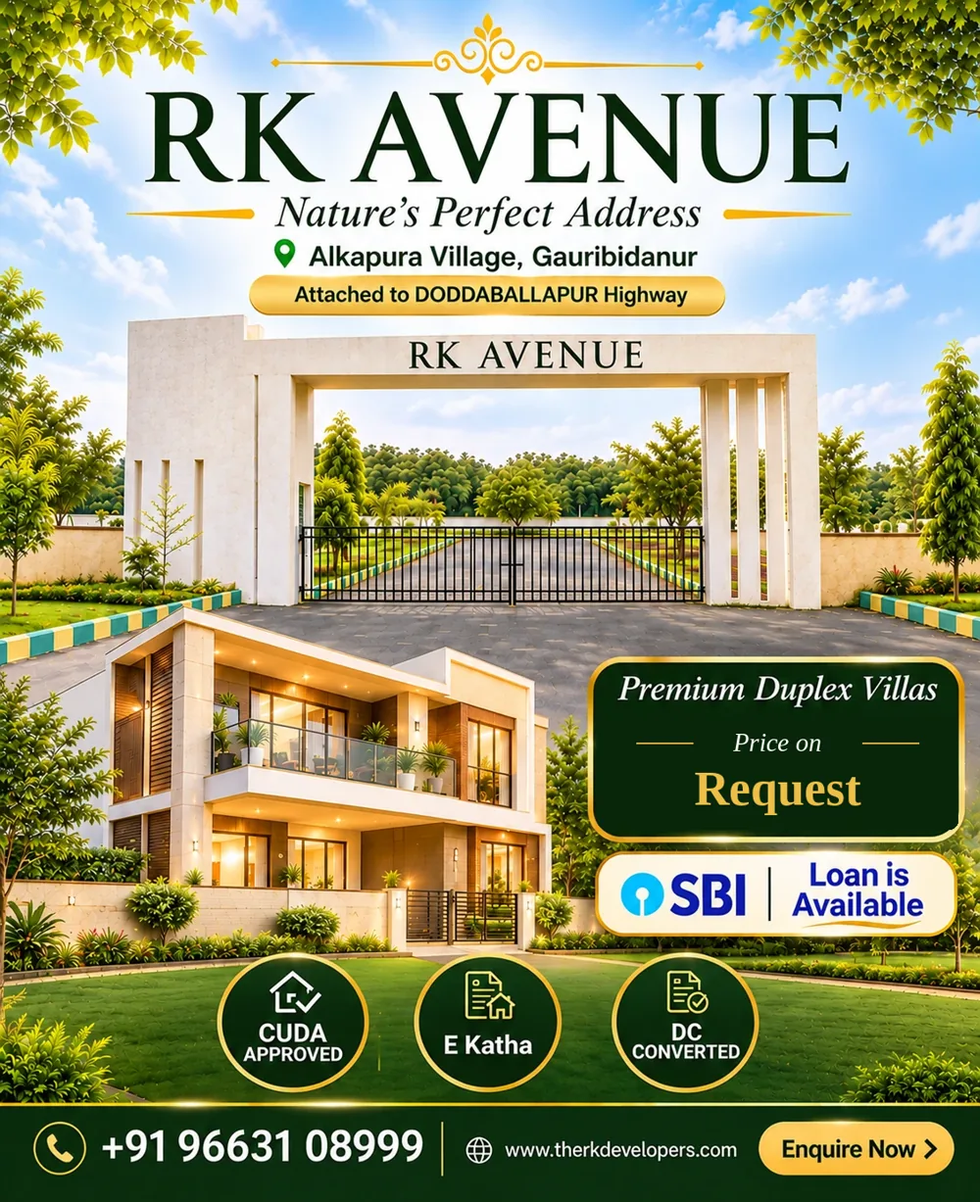
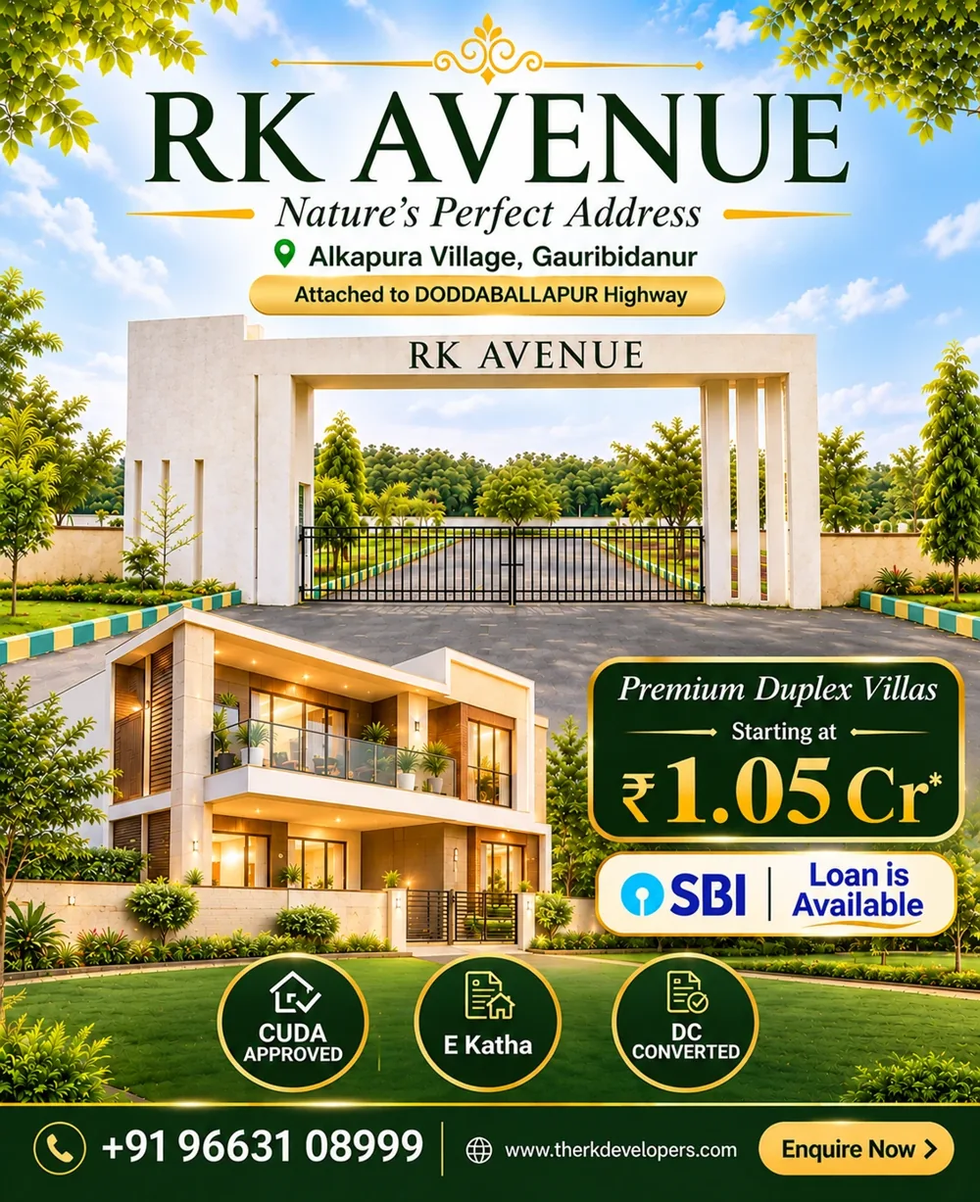
RK Avenue: villas only, show starting price of ₹1.05 Cr
- Replace plot wording with duplex villas on the RK Avenue page,
  homepage, projects page and chatbot
- Show 'Starting at ₹1.05 Cr*' (with terms note) and add the price
  to structured data
- Restore the original poster

Claude-Session: https://claude.ai/code/session_018ukqcjFmVaUsG5uPhhZ3Eq

Changed region(s): [[0.62, 0.5884, 0.961, 0.7123]]

diff --git a/rk-avenue.html b/rk-avenue.html
@@ -5,9 +5,9 @@
   <meta name="viewport" content="width=device-width, initial-scale=1.0" />
 
   <!-- Primary SEO -->
-  <title>RK Avenue | Premium Residential Plots near Gauribidanur</title>
-  <meta name="description" content="RK Avenue by RK Developers – premium duplex villas and gated plots in Alkapura Village, Gauribidanur, attached to Doddaballapur Highway. CUDA approved, E-Khata, DC converted, SBI loan available." />
-  <meta name="keywords" content="RK Avenue, RK Avenue Gauribidanur, residential plots Gauribidanur, gated community plots Bangalore, RK Developers plots, Alkapura Village plots" />
+  <title>RK Avenue | Premium Duplex Villas near Gauribidanur</title>
+  <meta name="description" content="RK Avenue by RK Developers – premium duplex villas starting at ₹1.05 Cr in Alkapura Village, Gauribidanur, attached to Doddaballapur Highway. CUDA approved, E-Khata, DC converted, SBI loan available." />
+  <meta name="keywords" content="RK Avenue, RK Avenue Gauribidanur, duplex villas Gauribidanur, villas near Doddaballapur Highway, CUDA approved villas, RK Developers villas, Alkapura Village villas" />
   <meta name="robots" content="index, follow, max-snippet:-1, max-image-preview:large, max-video-preview:-1" />
   <link rel="canonical" href="https://therkdevelopers.com/rk-avenue.html" />
 
@@ -20,16 +20,16 @@
   <!-- Open Graph -->
   <meta property="og:type" content="website" />
   <meta property="og:site_name" content="RK Developers" />
-  <meta property="og:title" content="RK Avenue | Premium Residential Plots near Gauribidanur" />
-  <meta property="og:description" content="RK Avenue by RK Developers – Nature's Perfect Address. Premium duplex villas in Alkapura Village, Gauribidanur, attached to Doddaballapur Highway. CUDA approved, E-Khata, DC converted, SBI loan available." />
+  <meta property="og:title" content="RK Avenue | Premium Duplex Villas near Gauribidanur" />
+  <meta property="og:description" content="RK Avenue by RK Developers – Nature's Perfect Address. Premium duplex villas starting at ₹1.05 Cr in Alkapura Village, Gauribidanur, attached to Doddaballapur Highway. CUDA approved, E-Khata, DC converted, SBI loan available." />
   <meta property="og:url" content="https://therkdevelopers.com/rk-avenue.html" />
   <meta property="og:image" content="https://therkdevelopers.com/assets/rk-logo.png" />
   <meta property="og:locale" content="en_IN" />
 
   <!-- Twitter Card -->
   <meta name="twitter:card" content="summary_large_image" />
-  <meta name="twitter:title" content="RK Avenue | Premium Residential Plots near Gauribidanur" />
-  <meta name="twitter:description" content="RK Avenue by RK Developers – Nature's Perfect Address. Premium duplex villas in Alkapura Village, Gauribidanur, attached to Doddaballapur Highway. CUDA approved, E-Khata, DC converted, SBI loan available." />
+  <meta name="twitter:title" content="RK Avenue | Premium Duplex Villas near Gauribidanur" />
+  <meta name="twitter:description" content="RK Avenue by RK Developers – Nature's Perfect Address. Premium duplex villas starting at ₹1.05 Cr in Alkapura Village, Gauribidanur, attached to Doddaballapur Highway. CUDA approved, E-Khata, DC converted, SBI loan available." />
   <meta name="twitter:image" content="https://therkdevelopers.com/assets/rk-logo.png" />
 
   
@@ -51,13 +51,16 @@
     "@graph": [
       {
         "@type": "Product",
-        "name": "RK Avenue – Premium Residential Plots by RK Developers",
-        "description": "RK Avenue by RK Developers – 36 premium gated community plots in Alkapura Village, near Gauribidanur.",
+        "name": "RK Avenue – Premium Duplex Villas by RK Developers",
+        "description": "RK Avenue by RK Developers – premium duplex villas in a gated community in Alkapura Village, Gauribidanur, attached to Doddaballapur Highway. CUDA approved, E-Khata, DC converted, SBI loan available.",
         "brand": {"@type": "Brand", "name": "RK Developers"},
         "url": "https://therkdevelopers.com/rk-avenue.html",
         "image": "https://therkdevelopers.com/assets/rk-logo.png",
         "offers": {
           "@type": "Offer",
+          "priceCurrency": "INR",
+          "price": "10500000",
+          "description": "Starting price for a duplex villa",
           "availability": "https://schema.org/InStock",
           "seller": {"@type": "Organization", "name": "RK Developers", "url": "https://therkdevelopers.com"}
         }
@@ -408,8 +411,8 @@
     <div class="av-hero-slide" style="background-image:url('assets/rk avenue/1a.webp')"></div>
     <div class="av-hero-overlay"></div>
     <div class="av-hero-content" data-aos="fade-up">
-      <div class="av-badge"><i class="fas fa-leaf"></i> Nature&rsquo;s Perfect Address</div>
-      <h1 class="av-hero-title">Prime Land.<br/><span>Premium Living.</span></h1>
+      <div class="av-badge"><i class="fas fa-house"></i> <span>Premium Duplex Villas &middot; <span style="white-space:nowrap;">From &#8377;1.05 Cr*</span></span></div>
+      <h1 class="av-hero-title">Your Dream Villa.<br/><span>Perfect Address.</span></h1>
       <p class="av-hero-sub">Premium duplex villas in an exclusive gated community in Alkapura Village, Gauribidanur — attached to Doddaballapur Highway. CUDA approved, E-Khata, DC converted, with SBI home loans available.</p>
       <div style="display:flex;gap:14px;justify-content:center;flex-wrap:wrap;">
         <a href="contact.html?project=rk-avenue" class="btn-blue">Book a Site Visit <i class="fas fa-arrow-right"></i></a>
@@ -422,13 +425,12 @@
   <div class="av-quick-bar">
     <div class="container">
       <div class="av-quick-inner">
-        <div class="av-qi"><i class="fas fa-map"></i><span>Size: <strong>2.5 Acre Layout</strong></span></div>
-        <div class="av-qi"><i class="fas fa-home"></i><span>Plots: <strong>36 Exclusive</strong></span></div>
+        <div class="av-qi"><i class="fas fa-house"></i><span>Type: <strong>Duplex Villas</strong></span></div>
+        <div class="av-qi"><i class="fas fa-indian-rupee-sign"></i><span>Price: <strong class="av-price-blink">From &#8377;1.05 Cr*</strong></span></div>
         <div class="av-qi"><i class="fas fa-file-circle-check"></i><span>Approvals: <strong>CUDA &middot; E-Khata &middot; DC Converted</strong></span></div>
         <div class="av-qi"><i class="fas fa-building-columns"></i><span>Loan: <strong>SBI Loan Available</strong></span></div>
         <div class="av-qi"><i class="fas fa-map-marker-alt"></i><span>Location: <strong>Alkapura Village, Gauribidanur</strong></span></div>
-        <div class="av-qi"><i class="fas fa-check-circle"></i><span>Status: <strong>Ready to Register</strong></span></div>
-        <a href="contact.html?project=rk-avenue" class="btn-blue" style="font-size:0.8rem;padding:9px 20px;">Enquire</a>
+                <a href="contact.html?project=rk-avenue" class="btn-blue" style="font-size:0.8rem;padding:9px 20px;">Enquire</a>
       </div>
     </div>
   </div>
@@ -443,6 +445,7 @@
         <div data-aos="fade-left">
           <div class="av-tag">Nature&rsquo;s Perfect Address</div>
           <h2 class="av-title">Premium <span>Duplex Villas</span> at RK Avenue</h2>
+          <div style="display:inline-flex;align-items:baseline;gap:10px;background:linear-gradient(135deg,#0B3D0E,#14532D);color:#fff;border-radius:14px;padding:12px 20px;margin:4px 0 18px;box-shadow:0 8px 24px rgba(20,83,45,0.25);"><span style="font-size:0.85rem;letter-spacing:0.5px;text-transform:uppercase;color:#D1FAE5;">Starting at</span><strong style="font-family:var(--font-heading),serif;font-size:1.9rem;color:#F5C451;">&#8377;1.05 Cr*</strong></div>
           <p class="av-desc">Spacious, modern duplex villas inside a gated community in Alkapura Village, Gauribidanur &mdash; attached to Doddaballapur Highway for easy access to Bengaluru, the airport and the Doddaballapur industrial area.</p>
           <div class="rk-hl-badges" style="display:grid;grid-template-columns:repeat(2,minmax(0,1fr));gap:14px;margin:26px 0 30px;">
             <div style="display:flex;gap:12px;align-items:center;background:#F0F7FF;border:1px solid #DBEAFE;border-radius:14px;padding:14px 16px;"><i class="fas fa-house-circle-check" style="color:#1D4ED8;font-size:1.3rem;width:22px;text-align:center;"></i><div><strong style="display:block;color:#0F172A;">CUDA Approved</strong><span style="font-size:0.8rem;color:#64748B;">Approved layout</span></div></div>
@@ -455,6 +458,7 @@
             <a href="contact.html?project=rk-avenue" class="btn-blue">Enquire Now <i class="fas fa-arrow-right"></i></a>
             <a href="tel:+919663108999" class="btn-blue" style="background:#fff;color:#1D4ED8;border:2px solid #1D4ED8;box-shadow:none;"><i class="fas fa-phone"></i> +91 96631 08999</a>
           </div>
+          <p style="font-size:0.75rem;color:#94A3B8;margin-top:14px;">*Starting price. Final price depends on villa size and specifications. Terms &amp; conditions apply.</p>
         </div>
       </div>
     </div>
@@ -467,14 +471,14 @@
       <div style="display:grid;grid-template-columns:1fr 1fr;gap:60px;align-items:center;">
         <div data-aos="fade-right">
           <div class="av-tag">About RK Avenue</div>
-          <h2 class="av-title">The <span>Pinnacle</span> of Residential Plot Living</h2>
-          <p class="av-desc">RK Avenue represents "The High" in modern residential planning. Spread across 2.5 acres of pristine land, this exclusive gated community offers just <strong>36 premium residential plots</strong>. Whether you are looking for a long-term investment or the perfect foundation for your dream home, RK Avenue combines the peace of a nature-centric layout with the structural integrity of a world-class development.</p>
-          <p class="av-desc">Every plot is fully serviced, legally clear, and ready for immediate registration and construction — no waiting, no delays.</p>
+          <h2 class="av-title">The <span>Pinnacle</span> of Villa Living</h2>
+          <p class="av-desc">RK Avenue represents "The High" in modern residential living. Spread across 2.5 acres in Alkapura Village, this exclusive gated community offers <strong>premium duplex villas</strong> — spacious modern homes surrounded by greenery, attached to Doddaballapur Highway.</p>
+          <p class="av-desc">Every villa comes with clear documentation — CUDA approved, E-Khata and DC converted — and SBI home loans are available.</p>
           <div class="av-stats-row">
             <div class="av-stat-box"><div class="n">2.5</div><div class="l">Acres Planned Layout</div></div>
-            <div class="av-stat-box"><div class="n">36</div><div class="l">High-Value Plots</div></div>
+            <div class="av-stat-box"><div class="n">&#8377;1.05 Cr*</div><div class="l">Starting Price</div></div>
             <div class="av-stat-box"><div class="n">SBI</div><div class="l">Home Loan Available</div></div>
-            <div class="av-stat-box"><div class="n">100%</div><div class="l">Ready to Register</div></div>
+            <div class="av-stat-box"><div class="n">E-Khata</div><div class="l">CUDA Approved</div></div>
           </div>
         </div>
         <div data-aos="fade-left" style="position:relative;">
@@ -541,7 +545,7 @@
       <div class="section-header" data-aos="fade-up" style="text-align:center;">
         <div class="av-tag">Amenities</div>
         <h2 class="av-title" style="text-align:center;">Infrastructure Designed for a <span>Lifetime</span></h2>
-        <p style="color:#64748B;max-width:580px;margin:0 auto;font-size:0.95rem;">We don't just provide land — we provide a complete lifestyle ecosystem. Every inch of RK Avenue is engineered for comfort, safety, and modern convenience.</p>
+        <p style="color:#64748B;max-width:580px;margin:0 auto;font-size:0.95rem;">We don't just build homes — we provide a complete lifestyle ecosystem. Every inch of RK Avenue is engineered for comfort, safety, and modern convenience.</p>
       </div>
       <div class="av-amenities">
         <div class="av-amenity-card" data-aos="fade-up" data-aos-delay="50">
@@ -555,14 +559,14 @@
           <div class="av-amenity-icon"><i class="fas fa-bolt"></i></div>
           <div class="av-amenity-body">
             <h4>Electricity Connection</h4>
-            <p>Ready-to-use electricity connection provided for every individual plot — zero setup hassle.</p>
+            <p>Ready-to-use electricity connection provided for every villa — zero setup hassle.</p>
           </div>
         </div>
         <div class="av-amenity-card" data-aos="fade-up" data-aos-delay="150">
           <div class="av-amenity-icon"><i class="fas fa-tint"></i></div>
           <div class="av-amenity-body">
             <h4>Water Supply</h4>
-            <p>Dedicated water connection for each plot with reliable supply backed by storage infrastructure.</p>
+            <p>Dedicated water connection for each villa with reliable supply backed by storage infrastructure.</p>
           </div>
         </div>
         <div class="av-amenity-card" data-aos="fade-up" data-aos-delay="200">
@@ -721,8 +725,8 @@
     <div class="container">
       <div class="av-cta" data-aos="fade-up">
         <div style="position:relative;z-index:1;">
-          <h2 style="font-family:var(--font-heading);font-size:clamp(1.8rem,3vw,2.6rem);color:white;margin-bottom:12px;">Ready to Claim Your Plot at RK Avenue?</h2>
-          <p style="color:rgba(255,255,255,0.75);font-size:1rem;margin-bottom:32px;max-width:520px;margin-left:auto;margin-right:auto;">With only 36 plots available, act now. Schedule a free site visit and speak with our team today.</p>
+          <h2 style="font-family:var(--font-heading);font-size:clamp(1.8rem,3vw,2.6rem);color:white;margin-bottom:12px;">Ready to Own Your Villa at RK Avenue?</h2>
+          <p style="color:rgba(255,255,255,0.75);font-size:1rem;margin-bottom:32px;max-width:520px;margin-left:auto;margin-right:auto;">Duplex villas starting at &#8377;1.05 Cr*, with SBI home loans available. Schedule a free site visit and speak with our team today.</p>
           <div style="display:flex;gap:14px;justify-content:center;flex-wrap:wrap;">
             <a href="contact.html?project=rk-avenue" style="display:inline-flex;align-items:center;gap:8px;background:white;color:var(--av-blue);font-weight:700;padding:14px 28px;border-radius:50px;font-size:0.9rem;text-decoration:none;box-shadow:0 4px 16px rgba(0,0,0,0.1);">Book a Site Visit <i class="fas fa-arrow-right"></i></a>
             <a href="tel:+919663108999" style="display:inline-flex;align-items:center;gap:8px;background:rgba(255,255,255,0.12);color:white;font-weight:600;padding:14px 28px;border-radius:50px;font-size:0.9rem;border:2px solid rgba(255,255,255,0.35);text-decoration:none;"><i class="fas fa-phone-alt"></i> +91 9663108999</a>
@@ -817,7 +821,7 @@
       </div>
       <div style="padding:28px 32px 32px;">
         <h3 style="font-family:'Playfair Display',serif;font-size:1.35rem;color:#1E293B;margin-bottom:8px;">Interested in a Property?</h3>
-        <p style="color:#64748B;font-size:0.9rem;line-height:1.6;margin-bottom:22px;">Our property experts are available right now. Book a <strong>free site visit</strong> and find your dream home today — limited plots remaining!</p>
+        <p style="color:#64748B;font-size:0.9rem;line-height:1.6;margin-bottom:22px;">Our property experts are available right now. Book a <strong>free site visit</strong> and find your dream home today — limited villas available!</p>
         <div style="display:flex;gap:10px;justify-content:center;flex-wrap:wrap;">
           <a href="contact.html" onclick="document.getElementById('rk-popup-overlay').style.display='none';" style="background:linear-gradient(135deg,#F97316,#DC2626);color:#fff;padding:11px 22px;border-radius:50px;font-weight:600;font-size:0.88rem;text-decoration:none;display:inline-flex;align-items:center;gap:7px;">Book a Free Visit <i class="fas fa-arrow-right"></i></a>
           <a href="tel:+919663108999" style="border:2px solid #F97316;color:#F97316;padding:11px 22px;border-radius:50px;font-weight:600;font-size:0.88rem;text-decoration:none;display:inline-flex;align-items:center;gap:7px;"><i class="fas fa-phone-alt"></i> Call Us</a>

diff --git a/js/widgets.js b/js/widgets.js
@@ -34,7 +34,7 @@
 
     /* ── All/Ongoing projects ── */
     { tags: ['projects','ongoing','current','available','what projects','all projects','developments','new'],
-      answer: '<strong>Ongoing Projects:</strong><br><br>🌿 <strong>Metro Greens</strong> — Farm plots, Chikkaballapur, Beechgahanalli Village. ₹999/sq.ft<br><br>🏡 <strong>RK Avenue</strong> — Premium duplex villas, Gauribidanur. CUDA approved, SBI loan available<br><br>🏢 <strong>RK Revenue</strong> — Commercial spaces, Hebbal, Bangalore. From ₹65 Lakhs',
+      answer: '<strong>Ongoing Projects:</strong><br><br>🌿 <strong>Metro Greens</strong> — Farm plots, Chikkaballapur, Beechgahanalli Village. ₹999/sq.ft<br><br>🏡 <strong>RK Avenue</strong> — Premium duplex villas, Gauribidanur. From ₹1.05 Cr, SBI loan available<br><br>🏢 <strong>RK Revenue</strong> — Commercial spaces, Hebbal, Bangalore. From ₹65 Lakhs',
       chips: ['Metro Greens','RK Avenue','RK Revenue','Book a Site Visit'] },
 
     /* ── Metro Greens ── */
@@ -44,7 +44,7 @@
 
     /* ── RK Avenue ── */
     { tags: ['rk avenue','avenue','gauribidanur','residential','plots','gated community','alkapura'],
-      answer: '🏡 <strong>RK Avenue</strong><br><strong>Location:</strong> Alkapura Village, Gauribidanur<br><strong>Layout:</strong> 2.5 Acres | <strong>Plots:</strong> 36 Exclusive<br><strong>Villas:</strong> Premium duplex villas<br><strong>Approvals:</strong> CUDA approved, E-Khata, DC converted<br><strong>Loan:</strong> SBI loan available<br><strong>Access:</strong> Attached to Doddaballapur Highway<br><strong>Status:</strong> Ready to Register & Construct<br><br><strong>Amenities:</strong> 30-ft wide roads, underground electricity & water, drainage, 24/7 security guards, CCTV, landscaped park, children\'s play area, street lighting.<br><br><strong>Nearby:</strong> Someshwara Railway Station (5 min), Gauribidanur–Doddaballapura Highway (SH9), Gauribidanur DC Office.',
+      answer: '🏡 <strong>RK Avenue</strong><br><strong>Location:</strong> Alkapura Village, Gauribidanur<br><strong>Layout:</strong> 2.5 Acres, gated community<br><strong>Villas:</strong> Premium duplex villas<br><strong>Price:</strong> Starting at ₹1.05 Cr*<br><strong>Approvals:</strong> CUDA approved, E-Khata, DC converted<br><strong>Loan:</strong> SBI loan available<br><strong>Access:</strong> Attached to Doddaballapur Highway<br><br><strong>Amenities:</strong> 30-ft wide roads, underground electricity & water, drainage, 24/7 security guards, CCTV, landscaped park, children\'s play area, street lighting.<br><br><strong>Nearby:</strong> Someshwara Railway Station (5 min), Gauribidanur–Doddaballapura Highway (SH9), Gauribidanur DC Office.',
       chips: ['Pricing','Book Visit','Contact Us'] },
 
     /* ── RK Revenue ── */
@@ -59,7 +59,7 @@
 
     /* ── Pricing ── */
     { tags: ['price','pricing','rate','cost','how much','per sqft','sq ft','budget','affordable','cheap','expensive'],
-      answer: '💰 <strong>Current Pricing:</strong><br><br>🌿 <strong>Metro Greens</strong> (Farm plots, Chikkaballapur)<br>&nbsp;&nbsp;&nbsp;→ ₹999/sq.ft<br><br>🏡 <strong>RK Avenue</strong> (Duplex villas, Gauribidanur)<br>&nbsp;&nbsp;&nbsp;→ Price on request · SBI loan available<br><br>🏢 <strong>RK Revenue</strong> (Commercial, Hebbal)<br>&nbsp;&nbsp;&nbsp;→ Retail from ₹65L | Offices from ₹82L | Suites from ₹1.4Cr<br><br>Call <strong>+91 9663108999</strong> for exact plot size & total cost!',
+      answer: '💰 <strong>Current Pricing:</strong><br><br>🌿 <strong>Metro Greens</strong> (Farm plots, Chikkaballapur)<br>&nbsp;&nbsp;&nbsp;→ ₹999/sq.ft<br><br>🏡 <strong>RK Avenue</strong> (Duplex villas, Gauribidanur)<br>&nbsp;&nbsp;&nbsp;→ Duplex villas from ₹1.05 Cr · SBI loan available<br><br>🏢 <strong>RK Revenue</strong> (Commercial, Hebbal)<br>&nbsp;&nbsp;&nbsp;→ Retail from ₹65L | Offices from ₹82L | Suites from ₹1.4Cr<br><br>Call <strong>+91 9663108999</strong> for exact plot size & total cost!',
       chips: ['Call Us','WhatsApp','Book a Site Visit'] },
 
     /* ── Location / address ── */

diff --git a/index.html b/index.html
@@ -123,7 +123,7 @@
         "@type": "Offer",
         "itemOffered": {
           "@type": "Product",
-          "name": "RK Avenue – Residential Plots"
+          "name": "RK Avenue – Premium Duplex Villas"
         }
       },
       {
@@ -290,7 +290,7 @@
     <div style="position:absolute;inset:0;z-index:0;pointer-events:none;overflow:hidden;">
       <div style="position:absolute;inset:0;display:grid;grid-template-columns:1fr 1fr;opacity:0.08;">
         <img src="assets/metro green hero section.webp" alt="Metro Greens farm plots by RK Developers near Chikkaballapur" style="width:100%;height:100%;object-fit:cover;" />
-        <img src="assets/rk avenue/a1.webp"            alt="RK Avenue gated residential plots by RK Developers, Gauribidanur" style="width:100%;height:100%;object-fit:cover;" />
+        <img src="assets/rk avenue/a1.webp"            alt="RK Avenue premium duplex villas by RK Developers, Gauribidanur" style="width:100%;height:100%;object-fit:cover;" />
       </div>
       <div style="position:absolute;inset:0;background:linear-gradient(160deg,#F0FDF4 0%,#EFF6FF 50%,#FFF7ED 100%);opacity:0.95;"></div>
     </div>
@@ -326,16 +326,16 @@
         <a href="rk-avenue.html" class="psc-card psc-card-link" data-aos="fade-left" data-aos-delay="100" style="text-decoration:none;display:block;cursor:pointer;">
           <div class="psc-image">
             <img src="assets/rk avenue/avunue 104.webp" alt="RK Avenue" />
-            <span class="psc-badge orange">Ready to Register</span>
+            <span class="psc-badge orange">From &#8377;1.05 Cr*</span>
             <div class="psc-hover-overlay" style="background:linear-gradient(135deg,rgba(249,115,22,0.85),rgba(220,38,38,0.85));"><i class="fas fa-arrow-right"></i> Explore Project</div>
           </div>
           <div class="psc-body">
-            <div class="psc-type orange"><i class="fas fa-map-pin"></i> Residential Plots</div>
+            <div class="psc-type orange"><i class="fas fa-house"></i> Duplex Villas</div>
             <h3>RK Avenue</h3>
             <p class="psc-loc"><i class="fas fa-map-marker-alt"></i> Alkapura Village, Gauribidanur</p>
             <p class="psc-desc">Premium duplex villas in a gated community attached to Doddaballapur Highway. CUDA approved, E-Khata, DC converted &mdash; SBI loan available.</p>
             <div class="psc-features">
-              <span><i class="fas fa-home"></i> 36 Exclusive Plots</span>
+              <span><i class="fas fa-building-columns"></i> SBI Loan Available</span>
               <span><i class="fas fa-file-circle-check"></i> CUDA Approved</span>
               <span><i class="fas fa-shield-alt"></i> Gated Community</span>
             </div>
@@ -698,7 +698,7 @@
         <div class="award-card" data-aos="fade-up" data-aos-delay="40" style="text-align:left;padding:24px;border-color:#22C55E;background:#F0FDF4;">
           <i class="fas fa-map-pin" style="font-size:1.4rem;margin-bottom:10px;color:#22C55E;"></i>
           <h4 style="font-size:0.95rem;margin-bottom:5px;">RK Avenue <span style="font-size:0.68rem;background:#DCFCE7;color:#15803D;font-weight:700;padding:2px 8px;border-radius:20px;margin-left:6px;">Ongoing</span></h4>
-          <p style="font-size:0.82rem;color:#64748B;margin:0 0 8px;">36 Premium Residential Plots · Alkapura Village, Gauribidanur</p>
+          <p style="font-size:0.82rem;color:#64748B;margin:0 0 8px;">Premium Duplex Villas · Alkapura Village, Gauribidanur</p>
           <a href="rk-avenue.html" style="font-size:0.78rem;color:#22C55E;font-weight:600;text-decoration:none;">View RK Avenue →</a>
         </div>
 

diff --git a/projects.html b/projects.html
@@ -7,7 +7,7 @@
   <!-- Primary SEO -->
   <title>Projects by RK Developers | Plots, Villas & Apartments Bangalore</title>
   <meta name="description" content="Explore all RK Developers projects in Bangalore. Premium residential plots, farm plots and commercial spaces. 20+ projects delivered across Bengaluru." />
-  <meta name="keywords" content="RK Developers projects, plots Bangalore, RK Avenue plots, Metro Greens Bangalore, RK Developer properties, new projects Bangalore" />
+  <meta name="keywords" content="RK Developers projects, plots Bangalore, RK Avenue villas, Metro Greens Bangalore, RK Developer properties, new projects Bangalore" />
   <meta name="robots" content="index, follow, max-snippet:-1, max-image-preview:large, max-video-preview:-1" />
   <link rel="canonical" href="https://therkdevelopers.com/projects.html" />
 
@@ -55,7 +55,7 @@
         "url": "https://therkdevelopers.com/projects.html",
         "itemListElement": [
           {"@type": "ListItem", "position": 1, "name": "Metro Greens – Farm Plots", "url": "https://therkdevelopers.com/metro-greens.html"},
-          {"@type": "ListItem", "position": 2, "name": "RK Avenue – Residential Plots", "url": "https://therkdevelopers.com/rk-avenue.html"},
+          {"@type": "ListItem", "position": 2, "name": "RK Avenue – Premium Duplex Villas", "url": "https://therkdevelopers.com/rk-avenue.html"},
           {"@type": "ListItem", "position": 3, "name": "RK Revenue – Commercial Spaces", "url": "https://therkdevelopers.com/rk-revenue.html"}
         ]
       },
@@ -127,7 +127,7 @@
         <div class="award-card" data-aos="fade-up" data-aos-delay="40" style="text-align:left;padding:24px;border-color:#22C55E;background:#F0FDF4;">
           <i class="fas fa-map-pin" style="font-size:1.4rem;margin-bottom:10px;color:#22C55E;"></i>
           <h4 style="font-size:0.95rem;margin-bottom:5px;">RK Avenue <span style="font-size:0.68rem;background:#DCFCE7;color:#15803D;font-weight:700;padding:2px 8px;border-radius:20px;margin-left:6px;">Ongoing</span></h4>
-          <p style="font-size:0.82rem;color:#64748B;margin:0 0 8px;">36 Premium Residential Plots · Alkapura Village, Gauribidanur</p>
+          <p style="font-size:0.82rem;color:#64748B;margin:0 0 8px;">Premium Duplex Villas · Alkapura Village, Gauribidanur</p>
           <a href="rk-avenue.html" style="font-size:0.78rem;color:#22C55E;font-weight:600;text-decoration:none;">View RK Avenue →</a>
         </div>
 
